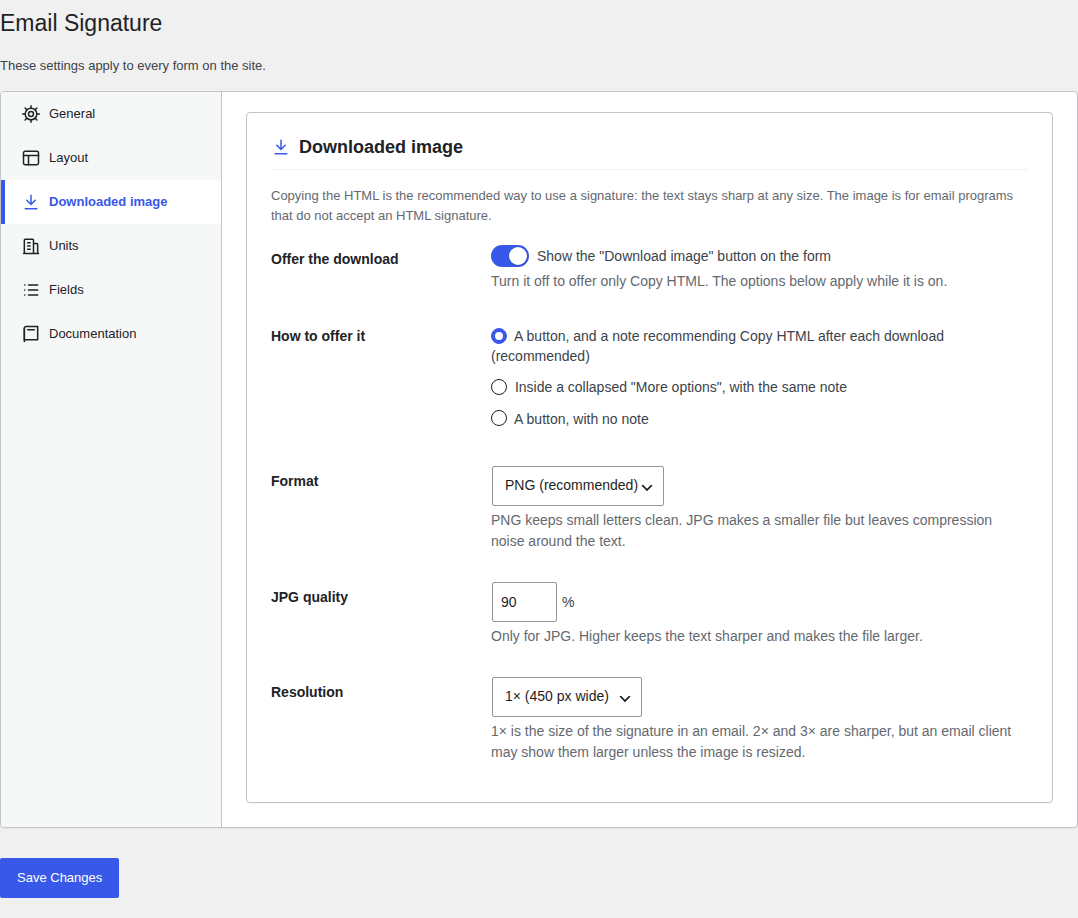
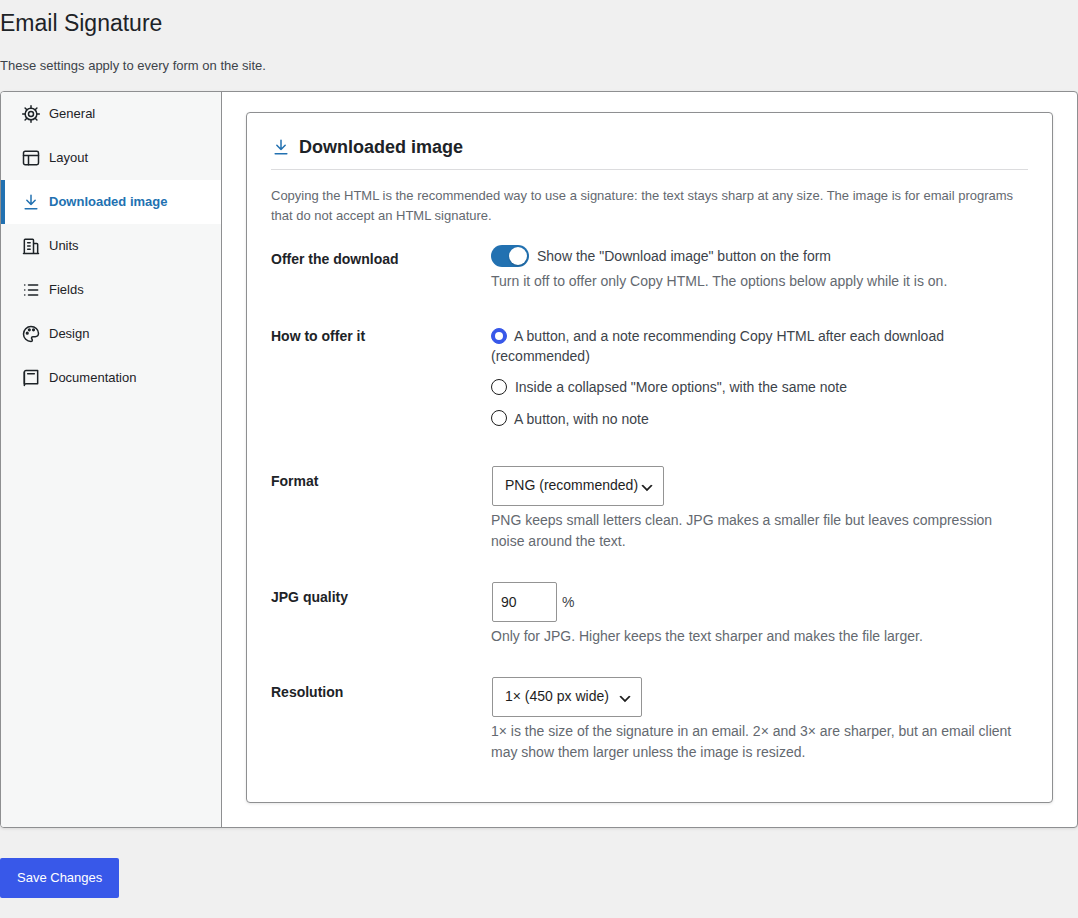
release: 1.2.0 — bump + finalize CHANGELOG (#60)
* release: 1.2.0 — bump + finalize CHANGELOG

Claude-Session: https://claude.ai/code/session_018srx5hc431EYmG4MHUr2KA

* release: 1.2.0 — review README, readme.txt and screenshots

The settings screenshots show the new colours and Quick Navigation, and
both readmes list the Dark Mode setting.

Claude-Session: https://claude.ai/code/session_018srx5hc431EYmG4MHUr2KA

---------

diff --git a/email-signature-generator.php b/email-signature-generator.php
@@ -3,7 +3,7 @@
  * Plugin Name:       Email Signature Generator
  * Plugin URI:        https://github.com/rpgmem/email-signature-generator
  * Description:       A form, placed with a shortcode, that builds a consistent HTML email signature for your organisation and copies it to Outlook or downloads it as an image.
- * Version:           1.1.0
+ * Version:           1.2.0
  * Requires at least: 6.8
  * Requires PHP:      8.3
  * Author:            Alex Meusburger
@@ -24,7 +24,7 @@ if ( ! defined( 'ABSPATH' ) ) {
  * The plugin version, beside the header WordPress reads as text. The two are
  * bumped together; readme.txt's Stable tag is the third site.
  */
-define( 'EMAIL_SIGNATURE_GENERATOR_VERSION', '1.1.0' );
+define( 'EMAIL_SIGNATURE_GENERATOR_VERSION', '1.2.0' );
 
 /*
  * Inline autoloader for the EmailSignatureGenerator\ namespace, so the plugin

diff --git a/README.md b/README.md
@@ -23,7 +23,7 @@ The default layout and logo are those of the São Paulo Municipal Department of 
 
 In **Settings → Email Signature** an administrator sets, for every form on the site:
 
-- **General:** the models offered, who may use the form, whether each browser may remember what was typed, optional Google Analytics (off by default; only a GA4 measurement ID, never a pasted snippet), and the email domains (only some allowed, shown beside the field so people type only the part before the "@", or any address except placeholder domains such as `test.com`).
+- **General:** the models offered, who may use the form, whether each browser may remember what was typed, optional Google Analytics (off by default; only a GA4 measurement ID, never a pasted snippet), and the email domains (only some allowed, shown beside the field so people type only the part before the "@", or any address except placeholder domains such as `test.com`), and this screen's Dark Mode (off, on, or following the operating system).
 - **Layout:** how wide the form gets on the page, the logo (from the media library), its width and its alternative text, and the space above the signature.
 - **Downloaded image:** whether and how the download is offered, and the image's format (PNG or JPG) and resolution.
 - **Units:** the units people choose from (name and acronym), and which one the form starts on.
@@ -31,7 +31,7 @@ In **Settings → Email Signature** an administrator sets, for every form on the
 - **Design:** off by default; switched on, the form's colours (accent, text on it, borders, notes, errors), rounded corners and font (its own or the theme's). Colour pairs below WCAG's 4.5:1 are saved with a warning. The signature itself keeps its look.
 - **Documentation:** what every setting does, how the form behaves, privacy and updates, inside WordPress.
 
-The on/off settings save the moment they are flipped; the rest saves with **Save Changes**.
+The on/off settings and Dark Mode save the moment they change; the rest saves with **Save Changes**.
 
 **Standalone**, open the `.html` file in a browser, publish it on any web page, or embed the latest one:
 

diff --git a/CHANGELOG.md b/CHANGELOG.md
@@ -5,6 +5,10 @@ The format follows [Keep a Changelog](https://keepachangelog.com/en/1.1.0/).
 
 ## [Unreleased]
 
+## [1.2.0] (2026-10-12)
+
+The settings screen takes Free Form Certificate's look: its colours, icons and documentation navigation, and a dark mode; a cleared number now keeps its default.
+
 ### Added
 
 - **Dark mode for the settings screen** (#59). A Dark Mode setting on the General tab (Off, On, or Auto to follow the operating system) turns this screen dark with Free Form Certificate's dark palette, saves as soon as it changes and repaints at once. The form on the site keeps its own look.
